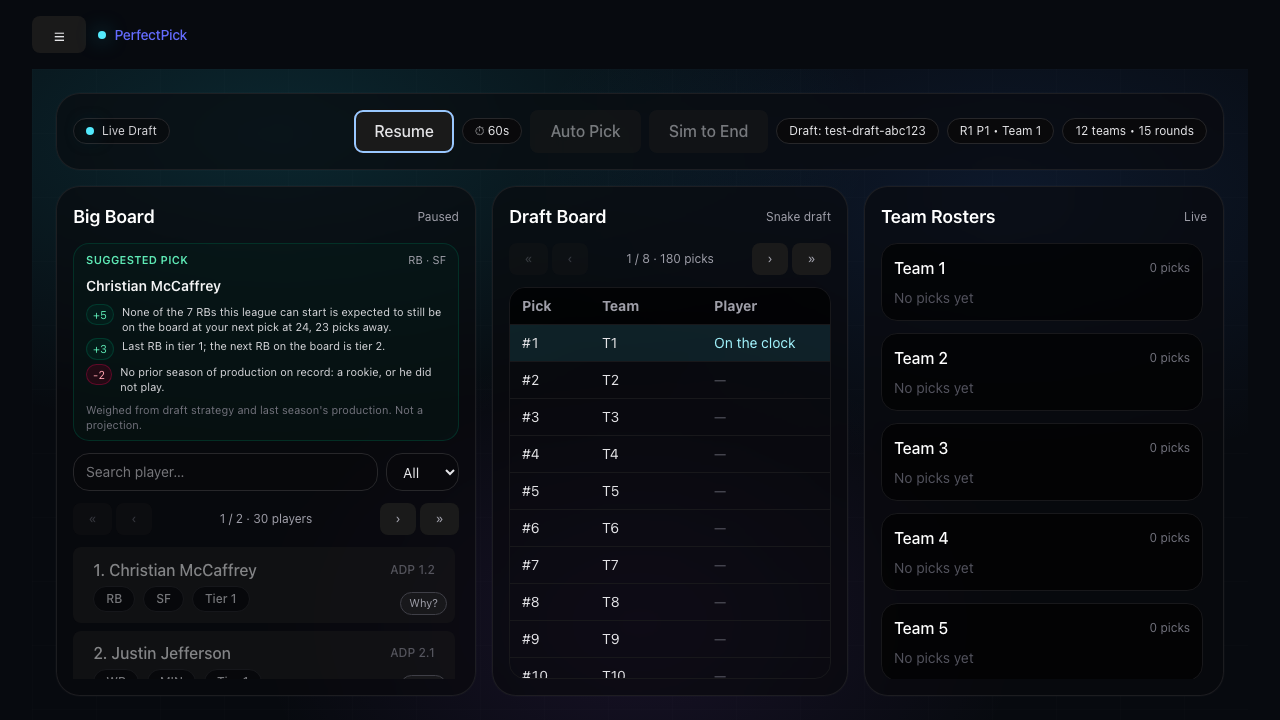
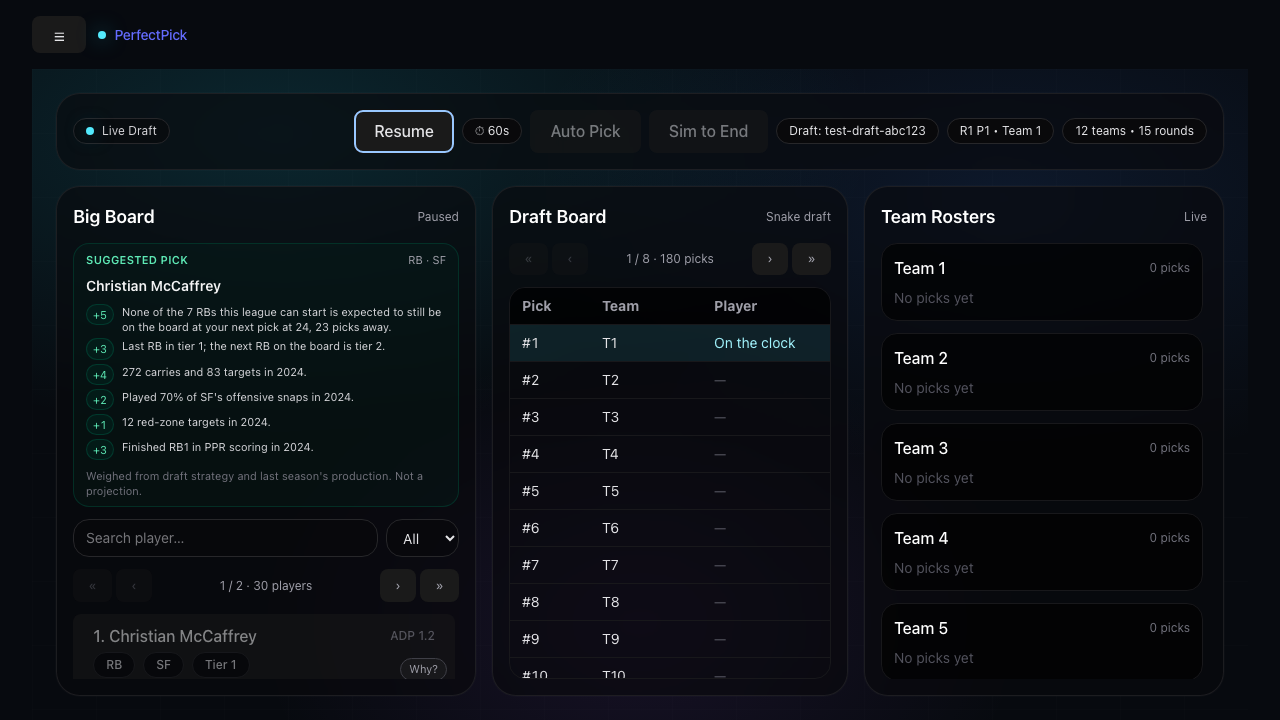
Fix four review findings in the pick-time advice UI
Gate the suggestion card on the user's turn. It was rendered on every
pick, so eleven times in twelve it sat on somebody else's clock stating
"you are on the clock at N" -- false -- with the value weight computed
against that other team's pick rather than the user's next one. The
engine run is gated with it (turn, or an open why panel), which is where
the wasted work actually was: a render-only gate saves nothing because
the memo re-runs on every draft change while the other teams auto-pick.
The why control still works off-turn; reading about a player is not
picking one.

Render the card regardless of the search and position filters. It is not
a row -- different content, its own container, above the controls -- so
hiding it on a keystroke dropped the search box 210px out from under the
caret, and filtering to RB, which is how you ask "who should I take at
RB?", deleted the answer. It prints position and team, so it is never
pointing at nothing.

Say something true in a why panel on a completed draft. The engine does
not run there, and its empty reasons rendered as "Nothing about this
player moves him either way" -- a verdict from an evaluation that never
happened, on every one of the ~3,700 rows still clickable at the end of
a draft.

Give the README screenshot a pool with real production on it. The shot
is taken off the shared MOCK_PLAYERS, which carry no stats, so the
flagship image had the engine calling Christian McCaffrey a rookie.
[…]

diff --git a/frontend/src/pages/Draft.jsx b/frontend/src/pages/Draft.jsx
@@ -4,7 +4,7 @@ import { apiGet, apiPost } from "../lib/api";
 import { usePageTitle } from "../lib/usePageTitle";
 import { orderByBoard } from "../lib/boardOrder";
 import { useRememberDraft } from "../lib/useRememberDraft";
-import { adviseOnPick } from "../lib/pickAdvice";
+import { adviseOnPick, NO_ADVICE } from "../lib/pickAdvice";
 
 const PICK_SECONDS = 60;
 
@@ -37,15 +37,11 @@ function formatWeight(weight) {
  * engine recommends players in spite of their drawbacks and says so, and a
  * card that only ever shows the good news is not worth reading.
  */
-function ReasonList({ reasons }) {
+function ReasonList({ reasons, emptyText = SCORED_NOTHING }) {
   const list = Array.isArray(reasons) ? reasons : [];
 
   if (list.length === 0) {
-    return (
-      <p className="text-[11px] leading-snug text-zinc-500">
-        Nothing about this player moves him either way.
-      </p>
-    );
+    return <p className="text-[11px] leading-snug text-zinc-500">{emptyText}</p>;
   }
 
   return (
@@ -76,6 +72,16 @@ function ReasonList({ reasons }) {
     </ul>
   );
 }
+
+/**
+ * Two different facts, and they must not share a sentence. The first is a
+ * result -- the engine weighed this player and nothing moved him. The second
+ * is the absence of a result: on a completed draft (or before a draft loads)
+ * the engine does not run at all, and saying he "moves neither way" would
+ * claim an evaluation that never happened.
+ */
+const SCORED_NOTHING = "Nothing about this player moves him either way.";
+const NOT_EVALUATED = "No pick is on the clock, so nobody has been evaluated.";
 
 const ADVICE_BASIS = "Weighed from draft strategy and last season's production. Not a projection.";
 
@@ -187,21 +193,20 @@ export default function Draft() {
   // pre-filtered list silently refills that window and the scarcity reasons
   // stop firing. So: the full `players`, and deps that only move when the
   // draft itself does.
+  //
+  // And only when somebody is going to read it. The card is for the user's
+  // own turn, and a why panel is either open or it is not; the app auto-picks
+  // the other eleven teams, so this skips the engine on eleven of every
+  // twelve picks rather than scoring the whole pool for a card nobody sees.
+  const adviceWanted = isMyTurn || whyId != null;
   const advice = useMemo(
-    () => adviseOnPick({ players, draft, boardRows, myTeam }),
-    [players, draft, boardRows, myTeam]
+    () => (adviceWanted ? adviseOnPick({ players, draft, boardRows, myTeam }) : NO_ADVICE),
+    [adviceWanted, players, draft, boardRows, myTeam]
   );
   const recommendation = advice.recommendation;
-
-  // The card is a pin of one row to the top of the board, so it lives under
-  // the same search and position filters the rows do. Naming a player who is
-  // not in the list underneath -- because you searched for somebody else --
-  // is a card pointing at nothing.
-  const recommendedInView = useMemo(() => {
-    const id = recommendation?.player?.id;
-    if (id == null) return false;
-    return filtered.some((p) => p.id === id);
-  }, [filtered, recommendation]);
+  // An empty `ranked` means the engine never ran, which is a different thing
+  // from it running and finding nothing to say about a player.
+  const playersWereEvaluated = advice.ranked.length > 0;
 
   const playersById = useMemo(() => {
     const m = new Map();
@@ -442,7 +447,20 @@ export default function Draft() {
               </div>
             )}
 
-            {recommendation && recommendedInView ? (
+            {/*
+              Only on the user's own clock. The engine weighs value and
+              scarcity against the USER's next pick, so on somebody else's
+              turn the card would be advising a decision that is not being
+              made, with the numbers taken from the wrong pick.
+
+              Not filtered, though: the card is not a row. It sits above the
+              search box in its own container, so hiding it on a keystroke
+              yanks the input out from under the caret -- and filtering to a
+              position is how you ask "who should I take at RB?", which is
+              the worst possible moment to delete the answer. It prints the
+              position and team, so it is never pointing at nothing.
+            */}
+            {isMyTurn && recommendation ? (
               <div
                 data-testid="advice-card"
                 className="rounded-2xl border border-emerald-900/50 bg-emerald-950/20 px-3 py-2 space-y-2"
@@ -596,7 +614,10 @@ export default function Draft() {
                       className="mt-2 rounded-2xl border border-cyan-900/50 bg-cyan-950/20 px-3 py-2 space-y-2"
                     >
                       <div className="text-xs font-medium text-cyan-100">Why {p.name} is here</div>
-                      <ReasonList reasons={advice.reasonsFor(p.id)} />
+                      <ReasonList
+                        reasons={advice.reasonsFor(p.id)}
+                        emptyText={playersWereEvaluated ? SCORED_NOTHING : NOT_EVALUATED}
+                      />
                       <p className="text-[11px] leading-snug text-zinc-500">{ADVICE_BASIS}</p>
                     </div>
                   ) : null}

diff --git a/frontend/tests/advice.spec.js b/frontend/tests/advice.spec.js
@@ -167,6 +167,82 @@ test("the why control works when it is not your turn", async ({ page }) => {
   expect(pickRequests).toBe(0);
 });
 
+test("no card when it is not your turn", async ({ page }) => {
+  // Pick #2 belongs to Team 2 and the user is Team 1. The card weighs value
+  // and scarcity against the USER's next pick, and its heading claims the
+  // user is on the clock -- on somebody else's turn both are wrong, and the
+  // app auto-picks the other eleven teams, so this is where you spend eleven
+  // twelfths of the draft.
+  mockPool(page, makeDraftState({ currentIndex: 1 }));
+  await page.route(`${API}/drafts/${DRAFT_ID}/auto-pick`, (r) =>
+    r.fulfill({ json: { ok: true } })
+  );
+
+  await page.goto(`/draft/${DRAFT_ID}`);
+  await page.getByRole("button", { name: "Pause" }).click();
+  await expect(page.getByText("R1 P2 • Team 2")).toBeVisible();
+
+  await expect(page.getByTestId("advice-card")).toHaveCount(0);
+
+  // But the board is still readable: reading about a player is not picking
+  // one, so the why control keeps working here.
+  await rowFor(page, "Justin Jefferson").getByTestId("why-player").click();
+  await expect(page.getByTestId("why-panel")).toContainText("Justin Jefferson");
+});
+
+test("the card outlives the search and position filters", async ({ page }) => {
+  mockPool(page, makeDraftState({ currentIndex: 0 }));
+
+  await page.goto(`/draft/${DRAFT_ID}`);
+  await page.getByRole("button", { name: "Pause" }).click();
+
+  const card = page.getByTestId("advice-card");
+  const search = page.getByPlaceholder("Search player…");
+  await expect(card).toContainText("Christian McCaffrey");
+  const restingY = (await search.boundingBox()).y;
+
+  // Searching for somebody else does not delete the suggestion, and -- since
+  // the card sits ABOVE the search box -- does not drag the box out from
+  // under the caret either.
+  await search.fill("Kelce");
+  await expect(rowFor(page, "Travis Kelce")).toBeVisible();
+  await expect(card).toContainText("Christian McCaffrey");
+  expect((await search.boundingBox()).y).toBe(restingY);
+
+  // Filtering to a position is how you ask "who should I take at RB?". The
+  // answer must survive the question.
+  await search.fill("");
+  await page.locator("select").first().selectOption("RB");
+  await expect(card).toContainText("Christian McCaffrey");
+  await expect(card).toContainText("RB");
+  expect((await search.boundingBox()).y).toBe(restingY);
+
+  // Even filtered to a position he is not in, where the card is the only
+  // thing on screen still naming him -- it says which position and team he
+  // is, so it is not pointing at nothing.
+  await page.locator("select").first().selectOption("QB");
+  await expect(rowFor(page, "Christian McCaffrey")).toHaveCount(0);
+  await expect(card).toContainText("Christian McCaffrey");
+  expect((await search.boundingBox()).y).toBe(restingY);
+});
+
+test("a completed draft does not call unevaluated players neutral", async ({ page }) => {
+  mockPool(page, makeCompletedDraft());
+
+  await page.goto(`/draft/${DRAFT_ID}`);
+
+  // Josh Allen went undrafted in this fixture, so his row is still there and
+  // still clickable -- as ~3,700 rows are at the end of a real draft.
+  await rowFor(page, "Josh Allen").getByTestId("why-player").click();
+
+  const panel = page.getByTestId("why-panel");
+  await expect(panel).toContainText("Josh Allen");
+  // The engine never ran here. Saying nothing "moves him either way" would
+  // report a verdict from an evaluation that never happened.
+  await expect(panel).not.toContainText("moves him either way");
+  await expect(panel).toContainText("nobody has been evaluated");
+});
+
 test("a completed draft recommends nobody", async ({ page }) => {
   mockPool(page, makeCompletedDraft());
 

diff --git a/frontend/tests/draft.spec.js b/frontend/tests/draft.spec.js
@@ -43,7 +43,12 @@ test.describe("Draft page", () => {
     await page.getByPlaceholder("Search player…").fill("Kelce");
 
     await expect(page.getByText("Travis Kelce").first()).toBeVisible();
-    await expect(page.getByText("Christian McCaffrey")).not.toBeVisible();
+    // Scoped to the board: this test is about which ROWS survive the filter.
+    // Asserting against the whole page also asserted that nothing else on it
+    // mentions the player, which is a claim this test never meant to make.
+    await expect(
+      page.getByTestId("big-board-row").filter({ hasText: "Christian McCaffrey" })
+    ).toHaveCount(0);
   });
 
   test("position filter shows only selected position", async ({ page }) => {
@@ -57,7 +62,10 @@ test.describe("Draft page", () => {
 
     await expect(page.getByText("Josh Allen").first()).toBeVisible();
     await expect(page.getByText("Lamar Jackson").first()).toBeVisible();
-    await expect(page.getByText("Christian McCaffrey")).not.toBeVisible();
+    // Scoped to the board, for the same reason as the search test above.
+    await expect(
+      page.getByTestId("big-board-row").filter({ hasText: "Christian McCaffrey" })
+    ).toHaveCount(0);
   });
 
   test("pause and resume toggle button label", async ({ page }) => {
@@ -188,15 +196,49 @@ test.describe("Draft page", () => {
     await expect(page.getByText("T1").first()).toBeVisible();
   });
 
+  // The README's front-page image. The shared pool carries no stat lines, so
+  // the suggestion card read "No prior season of production on record: a
+  // rookie, or he did not play." about Christian McCaffrey -- true of the
+  // fixture, and nonsense to anyone who knows football. The pool is fixed
+  // here rather than in fixtures.js: MOCK_PLAYERS is shared by a dozen specs
+  // and its ADPs, ranks and tiers are load-bearing for them.
   test("screenshot — draft page (paused, team 1 on clock)", async ({ page }) => {
     const state = makeDraftState({ currentIndex: 0 });
-    mockDraftApis(page, state);
+    // The season before the fixture's draft year, which is what the engine
+    // reasons from and says out loud.
+    const LAST_SEASON = state.year - 1;
+    const pool = MOCK_PLAYERS.map((p) =>
+      p.id === "p1"
+        ? {
+            ...p,
+            statsSeason: LAST_SEASON,
+            stats: {
+              rush_att: 272,
+              rec_tgt: 83,
+              off_snp: 715,
+              tm_off_snp: 1024,
+              rec_rz_tgt: 12,
+              pos_rank_ppr: 1,
+            },
+          }
+        : p
+    );
+    page.route(`${API}/players*`, (r) => r.fulfill({ json: { players: pool } }));
+    page.route(`${API}/drafts/${DRAFT_ID}`, (r) => r.fulfill({ json: state }));
 
     await page.goto(`/draft/${DRAFT_ID}`);
     await page.getByRole("button", { name: "Pause" }).click();
 
     await expect(page.getByRole("heading", { name: "Big Board" })).toBeVisible();
     await expect(page.getByText("Christian McCaffrey").first()).toBeVisible();
+
+    // The image is only worth shipping if the card is in it saying something
+    // real, so the shot waits for the stat-derived reason rather than for
+    // the card alone.
+    const card = page.getByTestId("advice-card");
+    await expect(card).toContainText("Christian McCaffrey");
+    await expect(card).toContainText(`Finished RB1 in PPR scoring in ${LAST_SEASON}.`);
+    await expect(card).not.toContainText("No prior season of production");
 
     await page.screenshot({ path: `${SCREENSHOTS}/draft.png`, fullPage: false });
   });

diff --git a/frontend/src/lib/pickAdvice.js b/frontend/src/lib/pickAdvice.js
@@ -105,7 +105,14 @@ export function adviseOnPick({ players, draft, boardRows, myTeam } = {}) {
   };
 }
 
-const NO_ADVICE = {
+/**
+ * What the engine returns when there is nothing to advise on -- no draft, a
+ * completed one, an empty pool. Exported so a caller that already knows the
+ * engine has nothing to say can skip running it and still hold a result of
+ * the same shape. An empty `ranked` is what tells a caller the engine never
+ * scored anybody, as opposed to scoring somebody and finding nothing.
+ */
+export const NO_ADVICE = {
   recommendation: null,
   ranked: [],
   reasonsFor: () => [],
